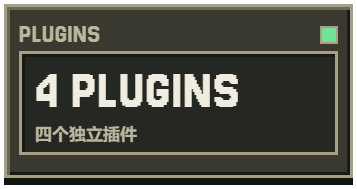
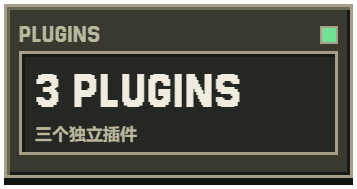
docs: 头部按钮改指开发者指南；版本收口到三个包 2.1.0，OFM 改为手动下载
头部

- 那颗「入门指南」按钮重画成「开发者指南」，直接跳到 docs/developers/README.md，
  不再锚在 #get-started。render-readme 的 id 列表补上 key-start，以后改文案
  重跑一次就出图。
- 四张统计卡按新口径重渲染：VERSION 卡写 2.1.0 / 三个插件 2.1.0，PLUGINS 卡
  3 PLUGINS / 三个独立插件，PACKAGES 卡 3 PACKS / 三个 npm 单包。
- badge 与两处 release 链接从 v2.0.0 指到 v2.1.0。

版本

- 只承认三个包 2.1.0（飞书、Clash、Magpie）。2.1.1 撤掉：它只是「已安装列表
  挑图标时市场图排在前面」的一个修正，不值得单开一条版本线，内容并进
  docs/releases/2.1.0.md，那段也从 README 去掉；GitHub 的 v2.1.1 release 与
  tag 已删除，v2.1.0 里的 magpie 资产换成了含修正的那一份（sha 98497ff2…）。
- npm 上 magpie 的 dist-tag latest 指回 2.1.0（token 权限不允许 unpublish，
  2.1.1 仍可手动指定，但默认拉到的就是 2.1.0）。

OFM

- 不再在 Dock 的插件页出现：插件列表那节改成手动下载入口，安装表里那一行删掉，
  npm 表标注「暂停维护，仅手动」。

Changed region(s): [[0.0924, 0.3704, 0.6779, 0.582], [0.0924, 0.6614, 0.1541, 0.7672]]

diff --git a/assets/readme/header.html b/assets/readme/header.html
@@ -71,13 +71,13 @@ h1{margin:0;font-size:124px;line-height:1.12;height:140px;white-space:nowrap}
 <img class="mascot" src="mascot.png" width="188" height="239" alt="用户指定的求佛透明挂件">
 </section>
 <section class="metrics">
-<div id="stat-version" class="metric frame"><div class="metric-head pixel">VERSION<i class="lamp"></i></div><div class="metric-value"><span class="number pixel">2.0.1</span><span class="metric-label" data-zh="四个插件 2.0.1" data-en="FOUR PLUGINS 2.0.1"></span></div></div>
-<div id="stat-desktop" class="metric frame"><div class="metric-head pixel">PLUGINS<i class="lamp"></i></div><div class="metric-value"><span class="number pixel">4 PLUGINS</span><span class="metric-label" data-zh="四个独立插件" data-en="INDEPENDENT PLUGINS"></span></div></div>
-<div id="stat-mail" class="metric frame"><div class="metric-head pixel">PACKAGES<i class="lamp"></i></div><div class="metric-value"><span class="number pixel" data-zh="4 PACKS" data-en="4 PACKS"></span><span class="metric-label" data-zh="四个 npm 单包" data-en="NPM SINGLE PACKAGES"></span></div></div>
+<div id="stat-version" class="metric frame"><div class="metric-head pixel">VERSION<i class="lamp"></i></div><div class="metric-value"><span class="number pixel">2.1.0</span><span class="metric-label" data-zh="三个插件 2.1.0" data-en="THREE PLUGINS 2.1.0"></span></div></div>
+<div id="stat-desktop" class="metric frame"><div class="metric-head pixel">PLUGINS<i class="lamp"></i></div><div class="metric-value"><span class="number pixel">3 PLUGINS</span><span class="metric-label" data-zh="三个独立插件" data-en="INDEPENDENT PLUGINS"></span></div></div>
+<div id="stat-mail" class="metric frame"><div class="metric-head pixel">PACKAGES<i class="lamp"></i></div><div class="metric-value"><span class="number pixel" data-zh="3 PACKS" data-en="3 PACKS"></span><span class="metric-label" data-zh="三个 npm 单包" data-en="NPM SINGLE PACKAGES"></span></div></div>
 <div id="stat-channels" class="metric frame"><div class="metric-head pixel">HOST API<i class="lamp"></i></div><div class="metric-value"><span class="number pixel">API 1</span><span class="metric-label" data-zh="FISH Dock 2.0.0+" data-en="FISH DOCK 2.0.0+"></span></div></div>
 </section>
 <div class="keys">
-<span id="key-zh" class="key frame green">中文</span><span id="key-en" class="key frame">English</span><span id="key-start" class="key frame" data-zh="入门指南" data-en="Get started"></span>
+<span id="key-zh" class="key frame green">中文</span><span id="key-en" class="key frame">English</span><span id="key-start" class="key frame" data-zh="开发者指南" data-en="Developer guide"></span>
 <span id="key-download" class="key frame green" data-zh="下载 / RELEASES" data-en="DOWNLOADS"></span><span id="key-release" class="key frame" data-zh="更新记录" data-en="CHANGELOG"></span><span id="key-issues" class="key frame" data-zh="反馈 / ISSUES" data-en="ISSUES"></span>
 </div>
 <script>

diff --git a/README.md b/README.md
@@ -3,7 +3,7 @@
 <p>
   <a href="README.md"><picture><source media="(prefers-color-scheme: dark)" srcset="assets/readme/key-zh-zh-dark.png"><img src="assets/readme/key-zh-zh-light.png" alt="中文" height="40"></picture></a>
   <a href="https://github.com/Fish-under-sea/FISH-Dock/blob/main/README.en.md"><picture><source media="(prefers-color-scheme: dark)" srcset="assets/readme/key-en-zh-dark.png"><img src="assets/readme/key-en-zh-light.png" alt="English" height="40"></picture></a>
-  <a href="#get-started"><picture><source media="(prefers-color-scheme: dark)" srcset="assets/readme/key-start-zh-dark.png"><img src="assets/readme/key-start-zh-light.png" alt="入门指南" height="40"></picture></a>
+  <a href="docs/developers/README.md"><picture><source media="(prefers-color-scheme: dark)" srcset="assets/readme/key-start-zh-dark.png"><img src="assets/readme/key-start-zh-light.png" alt="开发者指南" height="40"></picture></a>
 </p>
 
 <picture>
@@ -12,18 +12,18 @@
 </picture>
 
 <p>
-  <a href="https://github.com/Fish-under-sea/FISH-DOCK-Plugins/releases/tag/v2.0.0"><picture><source media="(prefers-color-scheme: dark)" srcset="assets/readme/config-stat-version-zh-dark.png"><img src="assets/readme/config-stat-version-zh-light.png" alt="VERSION：三个插件 2.1.0" width="23%"></picture></a>
-  <a href="#plugins"><picture><source media="(prefers-color-scheme: dark)" srcset="assets/readme/config-stat-desktop-zh-dark.png"><img src="assets/readme/config-stat-desktop-zh-light.png" alt="PLUGINS：四个独立插件" width="23%"></picture></a>
-  <a href="#packages"><picture><source media="(prefers-color-scheme: dark)" srcset="assets/readme/config-stat-mail-zh-dark.png"><img src="assets/readme/config-stat-mail-zh-light.png" alt="PACKAGES：四个 npm 单包" width="23%"></picture></a>
+  <a href="https://github.com/Fish-under-sea/FISH-DOCK-Plugins/releases/tag/v2.1.0"><picture><source media="(prefers-color-scheme: dark)" srcset="assets/readme/config-stat-version-zh-dark.png"><img src="assets/readme/config-stat-version-zh-light.png" alt="VERSION：四个插件 2.0.0" width="23%"></picture></a>
+  <a href="#plugins"><picture><source media="(prefers-color-scheme: dark)" srcset="assets/readme/config-stat-desktop-zh-dark.png"><img src="assets/readme/config-stat-desktop-zh-light.png" alt="PLUGINS：三个独立插件" width="23%"></picture></a>
+  <a href="#packages"><picture><source media="(prefers-color-scheme: dark)" srcset="assets/readme/config-stat-mail-zh-dark.png"><img src="assets/readme/config-stat-mail-zh-light.png" alt="PACKAGES：三个 npm 单包" width="23%"></picture></a>
   <a href="https://github.com/Fish-under-sea/FISH-Dock"><picture><source media="(prefers-color-scheme: dark)" srcset="assets/readme/config-stat-channels-zh-dark.png"><img src="assets/readme/config-stat-channels-zh-light.png" alt="HOST API：1，兼容 FISH Dock 2.0.0+" width="23%"></picture></a>
 </p>
 
-<p><img src="https://img.shields.io/badge/Node.js-24.14%2B-8fd6a0?style=flat-square&amp;logo=nodedotjs&amp;logoColor=white&amp;labelColor=5a544a" alt="Node.js 24.14+"> <img src="https://img.shields.io/badge/Adapter%20License-MIT-8fd6a0?style=flat-square&amp;labelColor=5a544a" alt="插件适配代码许可 MIT"> <img src="https://img.shields.io/badge/mihomo-GPL--3.0-f08a5d?style=flat-square&amp;labelColor=5a544a" alt="随包 mihomo 许可 GPL-3.0"> <img src="https://img.shields.io/badge/Plugins-2.0.0-8fd6a0?style=flat-square&amp;labelColor=5a544a" alt="三个插件 2.1.0"></p>
+<p><img src="https://img.shields.io/badge/Node.js-24.14%2B-8fd6a0?style=flat-square&amp;logo=nodedotjs&amp;logoColor=white&amp;labelColor=5a544a" alt="Node.js 24.14+"> <img src="https://img.shields.io/badge/Adapter%20License-MIT-8fd6a0?style=flat-square&amp;labelColor=5a544a" alt="插件适配代码许可 MIT"> <img src="https://img.shields.io/badge/mihomo-GPL--3.0-f08a5d?style=flat-square&amp;labelColor=5a544a" alt="随包 mihomo 许可 GPL-3.0"> <img src="https://img.shields.io/badge/Plugins-2.1.0-8fd6a0?style=flat-square&amp;labelColor=5a544a" alt="三个插件 2.1.0"></p>
 <p><strong>FISH Plugins &amp; Configuration · 插件配置仓</strong><br>官方插件、配置说明与发行入口；按需安装，独立运行。</p>
 
 <p>
   <a href="#get-started"><picture><source media="(prefers-color-scheme: dark)" srcset="assets/readme/key-download-zh-dark.png"><img src="assets/readme/key-download-zh-light.png" alt="下载 / Releases" height="40"></picture></a>
-  <a href="https://github.com/Fish-under-sea/FISH-DOCK-Plugins/releases/tag/v2.0.0"><picture><source media="(prefers-color-scheme: dark)" srcset="assets/readme/key-release-zh-dark.png"><img src="assets/readme/key-release-zh-light.png" alt="更新记录" height="40"></picture></a>
+  <a href="https://github.com/Fish-under-sea/FISH-DOCK-Plugins/releases/tag/v2.1.0"><picture><source media="(prefers-color-scheme: dark)" srcset="assets/readme/key-release-zh-dark.png"><img src="assets/readme/key-release-zh-light.png" alt="更新记录" height="40"></picture></a>
   <a href="https://github.com/Fish-under-sea/FISH-DOCK-Plugins/issues"><picture><source media="(prefers-color-scheme: dark)" srcset="assets/readme/key-issues-zh-dark.png"><img src="assets/readme/key-issues-zh-light.png" alt="反馈 / Issues" height="40"></picture></a>
 </p>
 
@@ -35,11 +35,11 @@
 
 每个插件独立保存配置与凭据，按需启动，不共享业务密钥。插件仓只发布插件资源，桌面安装包请前往 [FISH-Dock](https://github.com/Fish-under-sea/FISH-Dock)。
 
-本版飞书与 Clash 为 **2.1.0**、Magpie 为 **2.1.1**（OFM 仍是 2.0.1，暂停维护不跟随并且不再内置于Dock），要求 **FISH Dock ≥ 2.0.0**。这一版是 #11 的收口：自启动只留宿主插件卡一个入口，插件页里那颗重复的「随 Dock 启动」胶囊连同 `dock.autostart` 调用整颗删掉（后端读 `FISH_PLUGIN_AUTOSTART` 的分支保留，那是自启动的实际执行点）；Magpie 上游追到 `v0.1.2336+fish.3`——2.0.0 误附了未打补丁的官方 exe，签到页与探针的写动作发不出去，本版修回——并内置 15 项预装插件基线（13 个社区供应商插件首次启动登记、2 个页面插件随包分发，无 `Usage Glance`）；Clash 修掉节点下拉点开就消失（轮询重绘换掉 `<select>`）与 TUN / 普通模式互相占端口两个实测缺陷，页面版本升到 `1.4.0`。完整变更见 [2.0.1 发行说明](docs/releases/2.0.1.md)。Clash 另有 **2.0.2** 修订（页面 `1.4.1`）：节点列表与代理组横条不再被轮询重绘弹回起点，TUN 可以在内核运行时直接切换（后自动重启内核）。见 [2.0.2 发行说明](docs/releases/2.0.2.md)。Magpie 随后是 **2.0.3**：讯飞签到改成一天一个号、一次按 400 记（插件报了就用插件的），签到页补了科大讯飞与 ZCode 的标志，exe 升到 `magpie v0.1.2336+fish.4`。见 [2.0.3 发行说明](docs/releases/2.0.3.md)。再一版 **2.0.4** 修 2.0.3 的两处：讯飞的「今日」在读取侧也按 400 补正（历史记录不再是 0），图标改成带底色的圆角方块并给出深色版（签到页支持 `<id>-dark` 约定）。见 [2.0.4 发行说明](docs/releases/2.0.4.md)。最新 **2.0.5** 把讯飞改成「全部账号都签、每号 400」（2.0.3/2.0.4 误做成了只签一个号），签到页补了 Cline / OpenCode / MiMo 的深色版与 Trae 抠图，22px 视觉大小按缩放系数拉齐，两个内置插件的图标换成品牌图。见 [2.0.5 发行说明](docs/releases/2.0.5.md)。Clash 随后是 **2.0.6**：出口 IP 查询真正接通（此前 `runtime` 没把 `proxiedGet` 交出去，这条分支只会显示「当前运行时不支持查询出口 IP」），概览只显示当前节点所用的那条订阅、订阅页改成点卡片启停，规则与连接两页补上真正的列表（类型 / 内容 / 策略三列、逐条连接与上下行汇总），去掉单双栏切换、启停与刷新挪到标签页下方、概览改为容器内滚，页面版本改为跟随插件版本。见 [2.0.6 发行说明](docs/releases/2.0.6.md)。再一版 **2.0.7** 收版面：页签、启停与刷新并成一行（不再折两行），内核设置改成第四个页签（不再当每页底部的折叠条，保存按钮吸底），规则页与连接页移除（后端 `clash.details` 能力保留、页面不再给入口），`layout` 从后端到页面连根删掉，节点页新增「测速」按钮（当前组逐节点打 delay 接口、并发 6），四个页签共用同一个内滚高度且滚动期间不重绘——修掉「一滑就被拉回 / 卡住」。见 [2.0.7 发行说明](docs/releases/2.0.7.md)。Magpie 随后是 **2.0.8**：把预装插件的图标接管到**整个窗口**——插件页、供应商页、侧边栏、路由与用量卡片一起换。素材编进 exe 而不是放进插件包，所以社区插件升级不再把图标冲掉；每份素材是一张深浅自适应的 SVG（一份文件里两套，跟着系统配色切换）；自动签到页顶部加了「预装插件美化」开关（默认开），关掉即回原版。exe 升到 `magpie v0.1.2336+fish.7`。见 [2.0.8 发行说明](docs/releases/2.0.8.md)。最新 **2.0.9** 收 Clash 的交互：订阅改成单选（点一张卡启用即自动停用其余，内核只吃启用那条），节点页签删除、测速搬到主界面「当前节点」卡、默认代理组落在「自动选择」，超时不再显示「0 ms」而是红字「已超时」，内容区内边距恢复到 16px、字号收敛成 13 / 12.5 / 12 三档。见 [2.0.9 发行说明](docs/releases/2.0.9.md)。最新 **2.1.0** 把飞书、Clash、Magpie 三个插件一起对齐到这个版本（OFM 仍是 2.0.1，暂停维护不跟随）。实质改动都在 Magpie：**「扩展 → 插件 → 已安装」这一页也认品牌图标了**（它读的是包自己的 `magpie.icon`，与上一版接管的四处不是同一条路），包内的相对路径图（`page/icon.png`）也读得出来，于是「自动签到 / 中转站探针」不再是那个灰书页；图标在列表里从 18px 放到 23px。另外把 2.0.5 塞错位置的两张立绘挪回 `magpie.icon`——侧边栏那两个页面入口恢复各自的图标，立绘只出现在插件列表里。exe 升到 `magpie v0.1.2336+fish.8`。见 [2.1.0 发行说明](docs/releases/2.1.0.md)。Magpie 紧随一个 **2.1.1**：2.1.0 把已安装列表的图标算好也送到了页面，可画在行首的还是**插件市场那张**——挑选顺序是 `l?.icon || … || e.icon`，市场有图时就把我们这张盖掉了，商汤小浣熊、AutoClaw、Qoder、Trae 这几个看起来像没换。改成已安装这条优先（`e.icon || …`）后全部对上。见 [2.1.1 发行说明](docs/releases/2.1.1.md)。
+本版三个插件同为 **2.1.0**（飞书、Clash、Magpie），要求 **FISH Dock ≥ 2.0.0**。OFM 自 10 月 25 日起暂停维护，也不再在 Dock 的插件页里出现——需要的从 GitHub Release 或 npm 手动装，见下方「安装使用」。这一版是 #11 的收口：自启动只留宿主插件卡一个入口，插件页里那颗重复的「随 Dock 启动」胶囊连同 `dock.autostart` 调用整颗删掉（后端读 `FISH_PLUGIN_AUTOSTART` 的分支保留，那是自启动的实际执行点）；Magpie 上游追到 `v0.1.2336+fish.3`——2.0.0 误附了未打补丁的官方 exe，签到页与探针的写动作发不出去，本版修回——并内置 15 项预装插件基线（13 个社区供应商插件首次启动登记、2 个页面插件随包分发，无 `Usage Glance`）；Clash 修掉节点下拉点开就消失（轮询重绘换掉 `<select>`）与 TUN / 普通模式互相占端口两个实测缺陷，页面版本升到 `1.4.0`。完整变更见 [2.0.1 发行说明](docs/releases/2.0.1.md)。Clash 另有 **2.0.2** 修订（页面 `1.4.1`）：节点列表与代理组横条不再被轮询重绘弹回起点，TUN 可以在内核运行时直接切换（后自动重启内核）。见 [2.0.2 发行说明](docs/releases/2.0.2.md)。Magpie 随后是 **2.0.3**：讯飞签到改成一天一个号、一次按 400 记（插件报了就用插件的），签到页补了科大讯飞与 ZCode 的标志，exe 升到 `magpie v0.1.2336+fish.4`。见 [2.0.3 发行说明](docs/releases/2.0.3.md)。再一版 **2.0.4** 修 2.0.3 的两处：讯飞的「今日」在读取侧也按 400 补正（历史记录不再是 0），图标改成带底色的圆角方块并给出深色版（签到页支持 `<id>-dark` 约定）。见 [2.0.4 发行说明](docs/releases/2.0.4.md)。最新 **2.0.5** 把讯飞改成「全部账号都签、每号 400」（2.0.3/2.0.4 误做成了只签一个号），签到页补了 Cline / OpenCode / MiMo 的深色版与 Trae 抠图，22px 视觉大小按缩放系数拉齐，两个内置插件的图标换成品牌图。见 [2.0.5 发行说明](docs/releases/2.0.5.md)。Clash 随后是 **2.0.6**：出口 IP 查询真正接通（此前 `runtime` 没把 `proxiedGet` 交出去，这条分支只会显示「当前运行时不支持查询出口 IP」），概览只显示当前节点所用的那条订阅、订阅页改成点卡片启停，规则与连接两页补上真正的列表（类型 / 内容 / 策略三列、逐条连接与上下行汇总），去掉单双栏切换、启停与刷新挪到标签页下方、概览改为容器内滚，页面版本改为跟随插件版本。见 [2.0.6 发行说明](docs/releases/2.0.6.md)。再一版 **2.0.7** 收版面：页签、启停与刷新并成一行（不再折两行），内核设置改成第四个页签（不再当每页底部的折叠条，保存按钮吸底），规则页与连接页移除（后端 `clash.details` 能力保留、页面不再给入口），`layout` 从后端到页面连根删掉，节点页新增「测速」按钮（当前组逐节点打 delay 接口、并发 6），四个页签共用同一个内滚高度且滚动期间不重绘——修掉「一滑就被拉回 / 卡住」。见 [2.0.7 发行说明](docs/releases/2.0.7.md)。Magpie 随后是 **2.0.8**：把预装插件的图标接管到**整个窗口**——插件页、供应商页、侧边栏、路由与用量卡片一起换。素材编进 exe 而不是放进插件包，所以社区插件升级不再把图标冲掉；每份素材是一张深浅自适应的 SVG（一份文件里两套，跟着系统配色切换）；自动签到页顶部加了「预装插件美化」开关（默认开），关掉即回原版。exe 升到 `magpie v0.1.2336+fish.7`。见 [2.0.8 发行说明](docs/releases/2.0.8.md)。最新 **2.0.9** 收 Clash 的交互：订阅改成单选（点一张卡启用即自动停用其余，内核只吃启用那条），节点页签删除、测速搬到主界面「当前节点」卡、默认代理组落在「自动选择」，超时不再显示「0 ms」而是红字「已超时」，内容区内边距恢复到 16px、字号收敛成 13 / 12.5 / 12 三档。见 [2.0.9 发行说明](docs/releases/2.0.9.md)。最新 **2.1.0** 把飞书、Clash、Magpie 三个插件一起对齐到这个版本（OFM 仍是 2.0.1，暂停维护不跟随）。实质改动都在 Magpie：**「扩展 → 插件 → 已安装」这一页也认品牌图标了**（它读的是包自己的 `magpie.icon`，与上一版接管的四处不是同一条路），包内的相对路径图（`page/icon.png`）也读得出来，于是「自动签到 / 中转站探针」不再是那个灰书页；图标在列表里从 18px 放到 23px。另外把 2.0.5 塞错位置的两张立绘挪回 `magpie.icon`——侧边栏那两个页面入口恢复各自的图标，立绘只出现在插件列表里。exe 升到 `magpie v0.1.2336+fish.8`。见 [2.1.0 发行说明](docs/releases/2.1.0.md)。这一版同时修好了已安装列表的图标顺序——市场那张图原先排在行自己那张前面。
 
 > ⚠ **2.0.0 是 breaking 版本**：插件清单新增 `behaviors` 字段，FISH Dock 1.2.3 及更早的宿主用 `deny_unknown_fields` 解析，会以「plugin.json 格式无效或含未知字段」直接拒装。**旧宿主请先把 Dock 升到 2.0.0**，再安装这四个插件。
 
-> ⚠ npm 上 `@fish-under-sea/fish-dock-plugin-clash@1.1.0` 为误发版本（基于旧基线，缺少 1.0.4 的多订阅修复），请勿使用；当前单包版本见下方版本表：飞书 / Clash / Magpie 为 `2.1.0`，OFM 为 `2.0.1`。
+> ⚠ npm 上 `@fish-under-sea/fish-dock-plugin-clash@1.1.0` 为误发版本（基于旧基线，缺少 1.0.4 的多订阅修复），请勿使用；当前三个单包均为 `2.1.0`。
 
 <h2 id="plugins"><picture><source media="(prefers-color-scheme: dark)" srcset="assets/readme/section-features-dark.png"><img src="assets/readme/section-features-light.png" alt="PLUGINS · 四个插件" width="100%"></picture></h2>
 
@@ -61,15 +61,13 @@
 
 <p align="center"><img src="assets/readme/magpie.png" width="760" alt="Magpie 网关插件界面"></p>
 
-### OFM 本地模型（自 2026-10-25 起暂停维护）
+### OFM 本地模型（不再随 Dock 显示）
 
-本地模型渠道和 API 工作台。**自 2026 年 10 月 25 日起暂停维护**：不再跟进功能与兼容性更新，已安装的版本可继续使用，配置与数据保留；需要模型网关时请迁移到 Magpie。此前的灰度限制（完整登录、项目绑定与模型调用流程）保持原状。作者：FISH；插件卡上带一行「此插件于 10 月 25 日暂停维护」。
-
-<p align="center"><img src="assets/readme/ofm.png" width="760" alt="OFM 本地模型插件界面"></p>
+本地模型渠道和 API 工作台。**自 2026 年 10 月 25 日起暂停维护，也不再在 Dock 的插件页里出现**——需要的从 [GitHub Release](https://github.com/Fish-under-sea/FISH-DOCK-Plugins/releases/download/v2.0.1/ofm.fish-plugin) 或 npm 手动装（版本停在 `2.0.1`）。已经装好的版本可以继续用，配置与数据保留；要模型网关请迁移到 Magpie。作者：FISH。
 
 <h2 id="get-started"><picture><source media="(prefers-color-scheme: dark)" srcset="assets/readme/section-install-dark.png"><img src="assets/readme/section-install-light.png" alt="INSTALL · 安装使用" width="100%"></picture></h2>
 
-安装前先核对宿主版本：这四个插件是 2.0.0，**FISH Dock 需要 2.0.0 及以上**；1.2.3 及更早的宿主会因清单里的 `behaviors` 字段拒装。
+安装前先核对宿主版本：这三个插件是 2.1.0，**FISH Dock 需要 2.0.0 及以上**；1.2.3 及更早的宿主会因清单里的 `behaviors` 字段拒装。
 
 **方式一：Dock 内插件市场（推荐）**
 
@@ -79,36 +77,35 @@
 
 **方式二：npm 单包**
 
-1. `npm install @fish-under-sea/fish-dock-plugin-<插件>@2.0.0`（四个包名见下方「npm 单包」一节）。
+1. `npm install @fish-under-sea/fish-dock-plugin-<插件>@2.1.0`（三个包名见下方「npm 单包」一节）。
 2. `npx @fish-under-sea/fish-dock-plugin-<插件> --out C:/work/plugins`：把已校验的 `.fish-plugin` 复制到指定目录；目标已存在同名文件时命令会停下，不覆盖。
 3. 在 Dock 的「插件」页导入该 `.fish-plugin`，其余同方式一。
 
-下表给出四个插件对应的 GitHub 包与 npm 单包；GitHub 链接指向本次使用的 Release tag，发布前可能尚未生效。
+下表给出三个插件对应的 GitHub 包与 npm 单包；GitHub 链接指向本次使用的 Release tag，发布前可能尚未生效。OFM 不在表里——它不随 Dock 显示，只在上面那一节的手动下载入口里。
 
 | 插件 | GitHub 包 | npm 单包 |
 | --- | --- | --- |
-| 飞书 2.0.0 | [`feishu.fish-plugin`](https://github.com/Fish-under-sea/FISH-DOCK-Plugins/releases/download/v2.0.0/feishu.fish-plugin) | [`@fish-under-sea/fish-dock-plugin-feishu`](https://www.npmjs.com/package/@fish-under-sea/fish-dock-plugin-feishu/v/2.0.0) |
-| Clash 2.0.0 | [`clash.fish-plugin`](https://github.com/Fish-under-sea/FISH-DOCK-Plugins/releases/download/v2.0.0/clash.fish-plugin) | [`@fish-under-sea/fish-dock-plugin-clash`](https://www.npmjs.com/package/@fish-under-sea/fish-dock-plugin-clash/v/2.0.0) |
-| Magpie 2.0.0 | [`magpie.fish-plugin`](https://github.com/Fish-under-sea/FISH-DOCK-Plugins/releases/download/v2.0.0/magpie.fish-plugin) | [`@fish-under-sea/fish-dock-plugin-magpie`](https://www.npmjs.com/package/@fish-under-sea/fish-dock-plugin-magpie/v/2.0.0) |
-| OFM 2.0.0（暂停维护） | [`ofm.fish-plugin`](https://github.com/Fish-under-sea/FISH-DOCK-Plugins/releases/download/v2.0.0/ofm.fish-plugin) | [`@fish-under-sea/fish-dock-plugin-ofm`](https://www.npmjs.com/package/@fish-under-sea/fish-dock-plugin-ofm/v/2.0.0) |
+| 飞书 2.1.0 | [`feishu.fish-plugin`](https://github.com/Fish-under-sea/FISH-DOCK-Plugins/releases/download/v2.1.0/feishu.fish-plugin) | [`@fish-under-sea/fish-dock-plugin-feishu`](https://www.npmjs.com/package/@fish-under-sea/fish-dock-plugin-feishu/v/2.0.0) |
+| Clash 2.1.0 | [`clash.fish-plugin`](https://github.com/Fish-under-sea/FISH-DOCK-Plugins/releases/download/v2.1.0/clash.fish-plugin) | [`@fish-under-sea/fish-dock-plugin-clash`](https://www.npmjs.com/package/@fish-under-sea/fish-dock-plugin-clash/v/2.0.0) |
+| Magpie 2.1.0 | [`magpie.fish-plugin`](https://github.com/Fish-under-sea/FISH-DOCK-Plugins/releases/download/v2.1.0/magpie.fish-plugin) | [`@fish-under-sea/fish-dock-plugin-magpie`](https://www.npmjs.com/package/@fish-under-sea/fish-dock-plugin-magpie/v/2.0.0) |
 
 <h2 id="packages"><picture><source media="(prefers-color-scheme: dark)" srcset="assets/readme/section-packages-dark.png"><img src="assets/readme/section-packages-light.png" alt="PACKAGES · npm 单包" width="100%"></picture></h2>
 
-每个 npm 包只包含一个对应的插件归档和下载 CLI（bin 名 `fish-dock-plugin-<插件>`），不运行安装后脚本，不修改 Dock 或系统设置。四个包都是 **2.0.0**，要求 **Node.js ≥ 24** 与 **FISH Dock ≥ 2.0.0**。
+每个 npm 包只包含一个对应的插件归档和下载 CLI（bin 名 `fish-dock-plugin-<插件>`），不运行安装后脚本，不修改 Dock 或系统设置。**三个包都是 2.1.0**（OFM 单包停在 2.0.1，只供手动下载），要求 **Node.js ≥ 24** 与 **FISH Dock ≥ 2.0.0**。
 
 | npm 单包（完整包名） | 版本 | bin | `npm pack` 体积 |
 | --- | --- | --- | --- |
-| `@fish-under-sea/fish-dock-plugin-feishu` | 2.0.0 | `fish-dock-plugin-feishu` | 27.7 kB（6 个文件） |
-| `@fish-under-sea/fish-dock-plugin-clash` | 2.0.0 | `fish-dock-plugin-clash` | 16.9 MB（7 个文件，含 mihomo 许可） |
-| `@fish-under-sea/fish-dock-plugin-magpie` | 2.0.0 | `fish-dock-plugin-magpie` | 20.7 MB（7 个文件，含 Magpie 许可） |
-| `@fish-under-sea/fish-dock-plugin-ofm` | 2.0.0 | `fish-dock-plugin-ofm` | 1.9 MB（6 个文件） |
+| `@fish-under-sea/fish-dock-plugin-feishu` | 2.1.0 | `fish-dock-plugin-feishu` | 27.7 kB（6 个文件） |
+| `@fish-under-sea/fish-dock-plugin-clash` | 2.1.0 | `fish-dock-plugin-clash` | 16.9 MB（7 个文件，含 mihomo 许可） |
+| `@fish-under-sea/fish-dock-plugin-magpie` | 2.1.0 | `fish-dock-plugin-magpie` | 20.7 MB（7 个文件，含 Magpie 许可） |
+| `@fish-under-sea/fish-dock-plugin-ofm` | 2.0.1（暂停维护，仅手动） | `fish-dock-plugin-ofm` | 1.9 MB（6 个文件） |
 
 ```powershell
-npm install @fish-under-sea/fish-dock-plugin-clash@2.0.0
+npm install @fish-under-sea/fish-dock-plugin-clash@2.1.0
 npx @fish-under-sea/fish-dock-plugin-clash --out C:/work/plugins
 ```
 
-`--out` 只接收一个目录：命令把已校验的 `clash.fish-plugin`（按 SHA-256 与包内记录比对）复制进去；目标已存在同名文件时直接停下，不覆盖。复制完在 Dock 的「插件」页导入即可。四个包名分别是 `feishu`、`clash`、`magpie`、`ofm`，把上例里的 `clash` 换成对应名字即可。
+`--out` 只接收一个目录：命令把已校验的 `clash.fish-plugin`（按 SHA-256 与包内记录比对）复制进去；目标已存在同名文件时直接停下，不覆盖。复制完在 Dock 的「插件」页导入即可。三个包名分别是 `feishu`、`clash`、`magpie`，把上例里的 `clash` 换成对应名字即可。
 
 <h2 id="development"><picture><source media="(prefers-color-scheme: dark)" srcset="assets/readme/section-develop-dark.png"><img src="assets/readme/section-develop-light.png" alt="DEVELOP · 插件开发" width="100%"></picture></h2>
 
@@ -116,8 +113,8 @@ npx @fish-under-sea/fish-dock-plugin-clash --out C:/work/plugins
 
 ```powershell
 node tools/stage-development.mjs --out C:/work/preview-plugins --sdk ../FISH-Dock/sdk --ofm ../FISH-Dock/dsh-our-free-model --magpie C:/work/runtimes/magpie.exe --mihomo C:/work/runtimes/mihomo.exe
-node tools/build-release.mjs --out C:/work/release-2.0.0 --sdk ../FISH-Dock/sdk --ofm ../FISH-Dock/dsh-our-free-model --magpie C:/work/runtimes/magpie.exe --mihomo C:/work/runtimes/mihomo.exe --version 2.0.0
-node tools/build-npm-packages.mjs --dist C:/work/release-2.0.0/dist --out C:/work/npm-plugin-packages-2.0.0 --version 2.0.0
+node tools/build-release.mjs --out C:/work/release-2.1.0 --sdk ../FISH-Dock/sdk --ofm ../FISH-Dock/dsh-our-free-model --magpie C:/work/runtimes/magpie.exe --mihomo C:/work/runtimes/mihomo.exe --version 2.1.0
+node tools/build-npm-packages.mjs --dist C:/work/release-2.1.0/dist --out C:/work/npm-plugin-packages-2.1.0 --version 2.1.0
 node --test --test-isolation=none 'plugins/feishu/*.test.mjs' 'plugins/clash/*.test.mjs' 'plugins/magpie/*.test.mjs' 'plugins/ofm/*.test.mjs' 'plugins/relay-probe/*.test.mjs' 'shared/*.test.mjs' 'tools/*.test.mjs'
 ```
 
@@ -132,7 +129,7 @@ node --test --test-isolation=none 'plugins/feishu/*.test.mjs' 'plugins/clash/*.t
 | [自编译 Magpie](plugins/magpie/tools/README.md) | 补丁清单与每一处为什么补、构建命令、版本标识、跟着上游升级时会踩的坑 |
 | [签到页说明](plugins/magpie/page-plugins/page-checkin/README.md) | 宿主提供哪些读与调用、「预装插件美化」开关怎么工作、素材为什么编进 exe |
 | [厂商素材来源](plugins/magpie/page-plugins/page-checkin/page/logos/README.md) | 每张厂商图的来源、裁切范围与授权状况 |
-| [发行说明](docs/releases/) | 逐版本的改动与验证；最新是 [2.1.1](docs/releases/2.1.1.md) |
+| [发行说明](docs/releases/) | 逐版本的改动与验证；最新是 [2.1.0](docs/releases/2.1.0.md) |
 | [第三方许可](THIRD_PARTY_NOTICES.md) | 随包运行时的许可与来源（mihomo 的 GPL-3.0、Magpie 的随包许可等） |
 | [README 头图维护](assets/readme/MAINTAINING.md) | 头图怎么渲染、字号与卡片尺寸的约束、哪些东西不能换 |
 

diff --git a/docs/releases/2.1.0.md b/docs/releases/2.1.0.md
@@ -41,3 +41,17 @@
 - `internal/gui`：品牌映射按包取第一家、包内相对路径的图能读出来、越界路径与 `https`/`data:` 一律不碰（各一条用例）；
 - 核心脚本预算不变（这一版只动了 `plugins.css` 与 Go 侧）；
 - 真机：portable 数据目录起 `magpie web`，逐项核对已安装列表在深色下的图标、两个页面插件的侧边栏图标回到原样、开关关掉后整层回到原版。
+
+## 补：已安装列表的图标还是原样
+
+这一条原本单独发成 2.1.1，后来并回 2.1.0——它只是图标顺序的一个修正，不值得为它单开一条版本线。
+
+已安装列表的图标算好了、也送到了页面（`/api/plugins` 里每个插件的 `icon` 都已经是 `file:…`），但**画在行首的不是它**。插件行挑图标是：
+
+```js
+logo(l?.icon || l?.npm?.icon || e.icon || subs[0]?.icon || ag?.icon, …)
+```
+
+`l` 是**插件市场**那条 listing，`e` 才是**已安装**的这一条。市场给了图标时它排在前面，于是商汤小浣熊、AutoClaw、Qoder、Trae 这些市场有图的全被盖住了——看起来就像"没换"。
+
+顺序改成已安装这条优先（`e.icon || …`）后全部对上。核心脚本预算因此上调 224 字节并写明原因：这一行是「用行自己那张图，还是用市场那张」，属于核心的渲染逻辑，挪不进任何插件。
